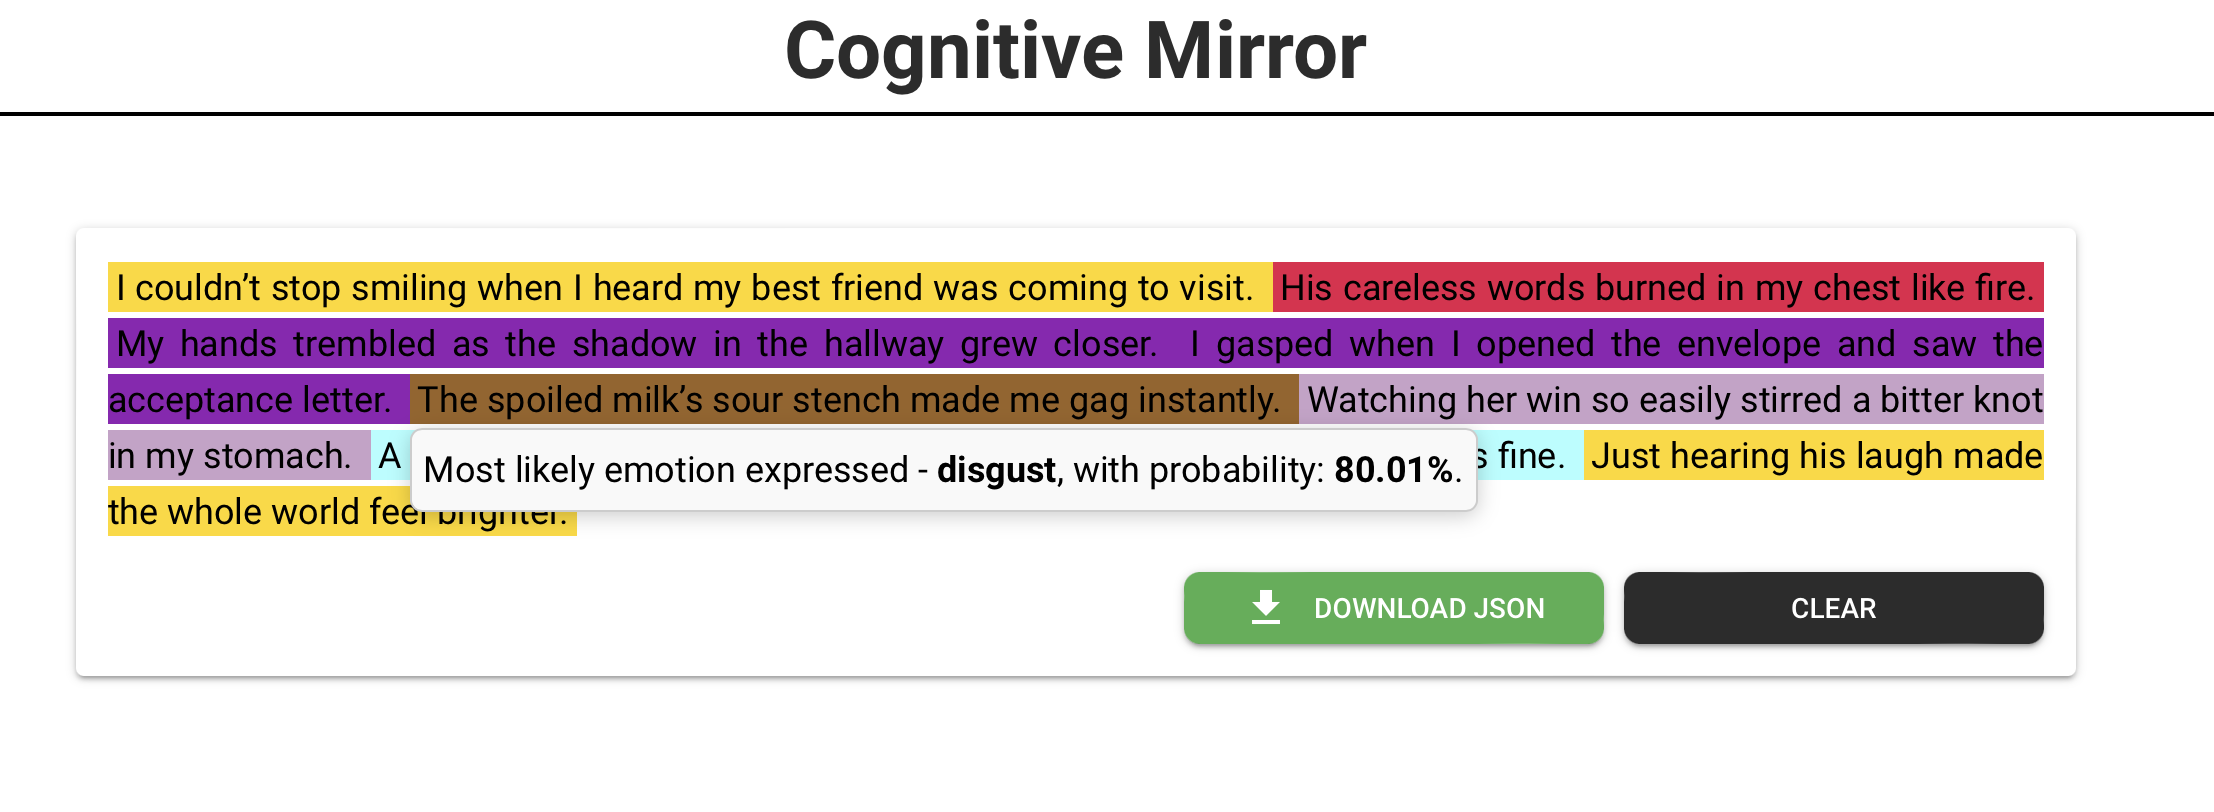
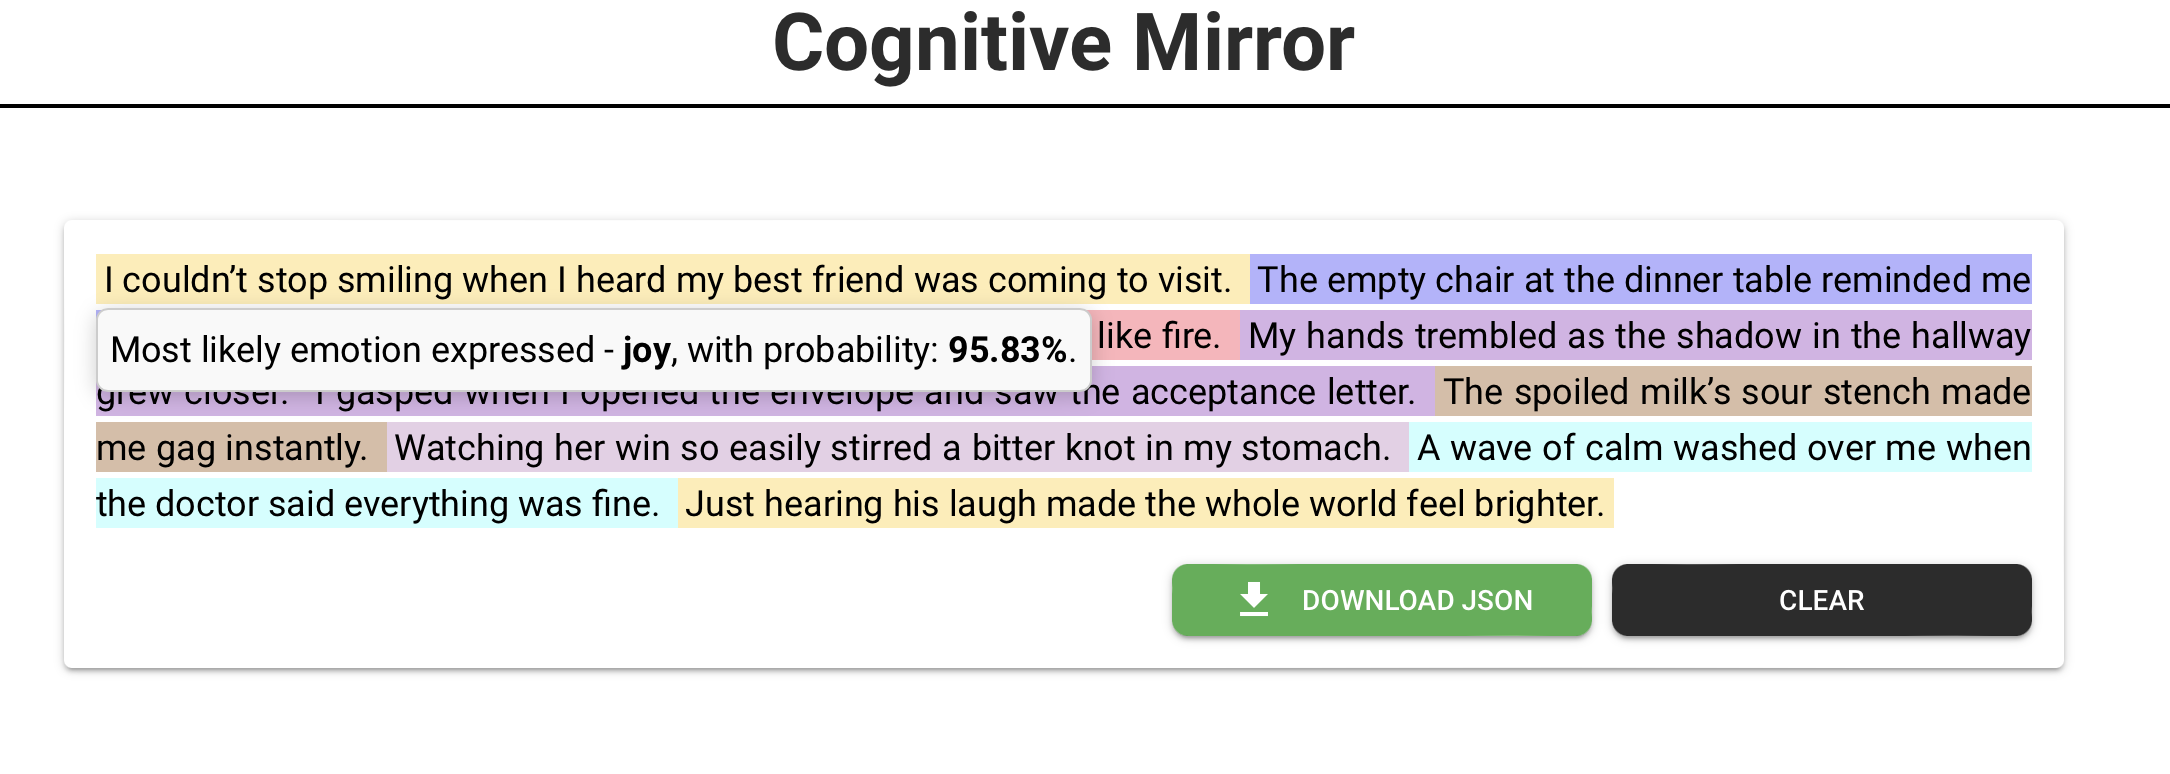
fix 2,6,8,9 (#58)

diff --git a/frontend/views.py b/frontend/views.py
@@ -18,12 +18,17 @@ PROPAGANDA_MAX = 5
 MANIPULATIONS_MAX = 9
 EMOTIONS_MAX = 28
 
+ui.add_head_html('''
+<link rel="icon" type="image/png" href="/assets/Cognitive_Mirror_Logo.png">
+''')
+
 
 def render_header():
-    with (ui.header().classes(
-            'w-full border-b-2 border-black py-0 px-0 items-center justify-center fixed-top bg-white').props(
-        'id="header_log_in"')):
-        with ui.column().classes('items-center'):
+    with ui.header().classes(
+            'w-full border-b-2 border-black py-0 px-0 items-center justify-center fixed-top bg-white'
+    ).props('id="header_log_in"'):
+        with ui.row().classes('items-center gap-0'):
+            ui.image('assets/Cognitive_Mirror_Logo.png').classes('w-[40px] h-[40px]')  # adjust size
             ui.label('Cognitive Mirror') \
                 .classes('index_label text-[40px] cursor-pointer') \
                 .on('click', lambda: ui.navigate.to('/'))
@@ -60,23 +65,43 @@ def render_header():
                     }
                 </style>
             ''')
-            with ui.button(icon='menu', color='#2c2c2c'):
-                with ui.menu().classes('w-[270px] rounded-[4px] border border-black bg-white '
-                                       ).style('transform-origin: top left;'):
-                    ui.menu_item('Analyze',
-                                 on_click=lambda: ui.navigate.to('/analyze'))
-                    ui.separator()
-                    ui.menu_item('Analyze Manipulations',
-                                 on_click=lambda: ui.navigate.to('/analyze_manipulations'))
-                    ui.separator()
-                    ui.menu_item('Analyze Emotions',
-                                 on_click=lambda: ui.navigate.to('/analyze_emotions'))
-                    ui.separator()
-                    ui.menu_item('Analyze Manipulations And Emotions',
-                                 on_click=lambda: ui.navigate.to('/analyze_manipulations_and_emotions'))
-                    ui.separator()
-                    ui.menu_item('Analyze Propaganda',
-                                 on_click=lambda: ui.navigate.to('/analyze_propaganda'))
+
+            def menu_button():
+                expanded = {'value': False}
+
+                def toggle(state: bool):
+                    expanded['value'] = state
+                    if state:
+                        button.set_text('Available Tools')
+                        button.classes(
+                            replace='transition-all duration-300 w-[270px] rounded-[8px] bg-[rgb(44,44,44)] '
+                                    'text-white h-[40px] flex items-center justify-start pl-2')
+                    else:
+                        button.set_text('')
+                        button.classes(
+                            replace='transition-all duration-300 w-[40px] rounded-[8px] bg-[rgb(44,44,44)] '
+                                    'text-white h-[40px] flex items-center justify-center')
+
+                with ui.button(icon='menu', color='#2c2c2c').classes('w-[40px] rounded-[8px] bg-[rgb(44,44,44)] '
+                                                                     'h-[40px]') as button:
+                    with ui.menu().classes(
+                            'w-[270px] rounded-[4px] border border-black bg-white'
+                    ).style('transform-origin: top left;').on('show', lambda e: toggle(True)).on('hide',
+                                                                                                 lambda e: toggle(
+                                                                                                     False)):
+                        ui.menu_item('Full Analysis', on_click=lambda: ui.navigate.to('/analyze'))
+                        ui.separator()
+                        ui.menu_item('Manipulation & Emotion Analysis',
+                                     on_click=lambda: ui.navigate.to('/analyze_manipulations_and_emotions'))
+                        ui.separator()
+                        ui.menu_item('Propaganda Analysis', on_click=lambda: ui.navigate.to('/analyze_propaganda'))
+                        ui.separator()
+                        ui.menu_item('Manipulation Analysis',
+                                     on_click=lambda: ui.navigate.to('/analyze_manipulations'))
+                        ui.separator()
+                        ui.menu_item('Emotion Analysis', on_click=lambda: ui.navigate.to('/analyze_emotions'))
+
+            menu_button()
 
 
 ui.add_css('''
@@ -97,9 +122,6 @@ footer {
 
 
 def render_footer():
-    # with ui.footer().classes(
-    #         'w-full border-t-2 border-gray-300 bg-[#2c2c2c] text-white flex flex-col items-center'
-    # ).style('position: fixed; bottom: 0; left: 0; width: 100%; padding: 20px 60px; z-index: 1000;'):
     with ui.column().classes(
             'w-full border-t-2 border-gray-300 flex flex-col justify-center items-center bg-[#2c2c2c] text-white'
     ).style('position: absolute; left: 0px; right: 0px; bottom: 0px; height: 200px'):
@@ -164,7 +186,10 @@ def render_analyze_manipulations_request():
             ''')
             start_column = ui.column().classes('gap-0')
             with start_column:
-                ui.label('Provide a text for analysis:').classes('text-[18px] mt-[200px] justify-center font-bold')
+                ui.html(
+                    'Provide a text for <span class="font-bold">Manipulation Analysis</span>:'
+                ).classes('text-[18px] mt-[200px] justify-center')
+
                 description = ui.textarea().classes('w-[1000px]').props('id=create-request outlined dense autogrow')
 
             analyzed_data = None
@@ -357,7 +382,10 @@ def render_analyze_emotions_request():
             ''')
             start_column = ui.column().classes('gap-0')
             with start_column:
-                ui.label('Provide a text for analysis:').classes('text-[18px] mt-[200px] justify-center font-bold')
+                ui.html(
+                    'Provide a text for <span class="font-bold">Emotion Analysis</span>:'
+                ).classes('text-[18px] mt-[200px] justify-center')
+
                 description = ui.textarea().classes('w-[1000px]').props('id=create-request outlined dense autogrow')
 
             analyzed_data = None
@@ -551,7 +579,10 @@ def render_analyze_request():
             ''')
             start_column = ui.column().classes('gap-0')
             with start_column:
-                ui.label('Provide a text for analysis:').classes('text-[18px] mt-[200px] justify-center font-bold')
+                ui.html(
+                    'Provide a text for <span class="font-bold">Full Analysis</span>:'
+                ).classes('text-[18px] mt-[200px] justify-center')
+
                 description = ui.textarea().classes('w-[1000px]').props('id=create-request outlined dense autogrow')
 
             analyzed_data = None
@@ -787,7 +818,10 @@ def render_analyze_propaganda_request():
             ''')
             start_column = ui.column().classes('gap-0')
             with start_column:
-                ui.label('Provide a text for analysis:').classes('text-[18px] mt-[200px] justify-center font-bold')
+                ui.html(
+                    'Provide a text for <span class="font-bold">Propaganda Analysis</span>:'
+                ).classes('text-[18px] mt-[200px] justify-center')
+
                 description = ui.textarea().classes('w-[1000px]').props('id=create-request outlined dense autogrow')
 
             analyzed_data = None
@@ -941,7 +975,10 @@ def render_analyze_manipulations_and_emotions_request():
                     ''')
             start_column = ui.column().classes('gap-0')
             with start_column:
-                ui.label('Provide a text for analysis:').classes('text-[18px] mt-[200px] justify-center font-bold')
+                ui.html(
+                    'Provide a text for <span class="font-bold">Manipulation & Emotion Analysis</span>:'
+                ).classes('text-[18px] mt-[200px] justify-center')
+
                 description = ui.textarea().classes('w-[1000px]').props('id=create-request outlined dense autogrow')
 
             analyzed_data = None
@@ -1237,33 +1274,34 @@ def render_index_page():
             .classes('text-3xl font-bold mb-6 text-gray-800')
 
         endpoints = [
-            ('Analyze',
-             'Runs the full pipeline: finds sentences with propaganda, '
-             'and inside those sentences looks for emotions and manipulative techniques.',
+            ('Full Analysis',
+             'Runs the full pipeline: identifies sentences with Russian propaganda (Russo-Ukrainian war context) and, '
+             'within those sentences, detects expressed emotions and logical fallacies.',
              '/analyze'),
 
-            ('Analyze Manipulations',
-             'Detects specific manipulation strategies in each sentence, like false dilemmas, '
+            ('Manipulation & Emotion Analysis',
+             'Checks for manipulative techniques at the sentence level and analyzes emotions '
+             'at the paragraph level for broader context.',
+             '/analyze_manipulations_and_emotions'),
+
+            ('Propaganda Analysis',
+             'Highlights sentences containing Russian propaganda (Russo-Ukrainian war context) and '
+             'distinguishes them from neutral ones.',
+             '/analyze_propaganda'),
+
+            ('Manipulation Analysis',
+             'Detects specific manipulation techniques in each sentence, including false dilemmas, '
              'slippery slopes, appeals to authority, majority, tradition, and more.',
              '/analyze_manipulations'),
 
-            ('Analyze Emotions',
-             'Identifies emotions sentence by sentence, such as anger, joy, fear, sadness, '
-             'love, surprise, admiration, and others.',
-             '/analyze_emotions'),
-
-            ('Analyze Manipulations and Emotions',
-             'Checks for manipulative techniques at the sentence level, '
-             'while analyzing emotions at the paragraph level for a broader context.',
-             '/analyze_manipulations_and_emotions'),
-
-            ('Analyze Propaganda',
-             'Highlights sentences that contain propaganda, distinguishing them from neutral ones.',
-             '/analyze_propaganda')
+            ('Emotion Analysis',
+             'Analyzes each sentence for emotions such as anger, joy, fear, sadness, love, surprise, '
+             'admiration, and others.',
+             '/analyze_emotions')
         ]
 
         for title, description, link in endpoints:
-            if title != 'Analyze Propaganda':
+            if title != 'Emotion Analysis':
                 with ui.card().classes('w-[600px] p-6 hover:shadow-xl transition-all cursor-pointer') \
                         .on('click', lambda e, link_to=link: ui.navigate.to(link_to)):
                     ui.label(title).classes('text-2xl font-semibold cursor-pointer')
